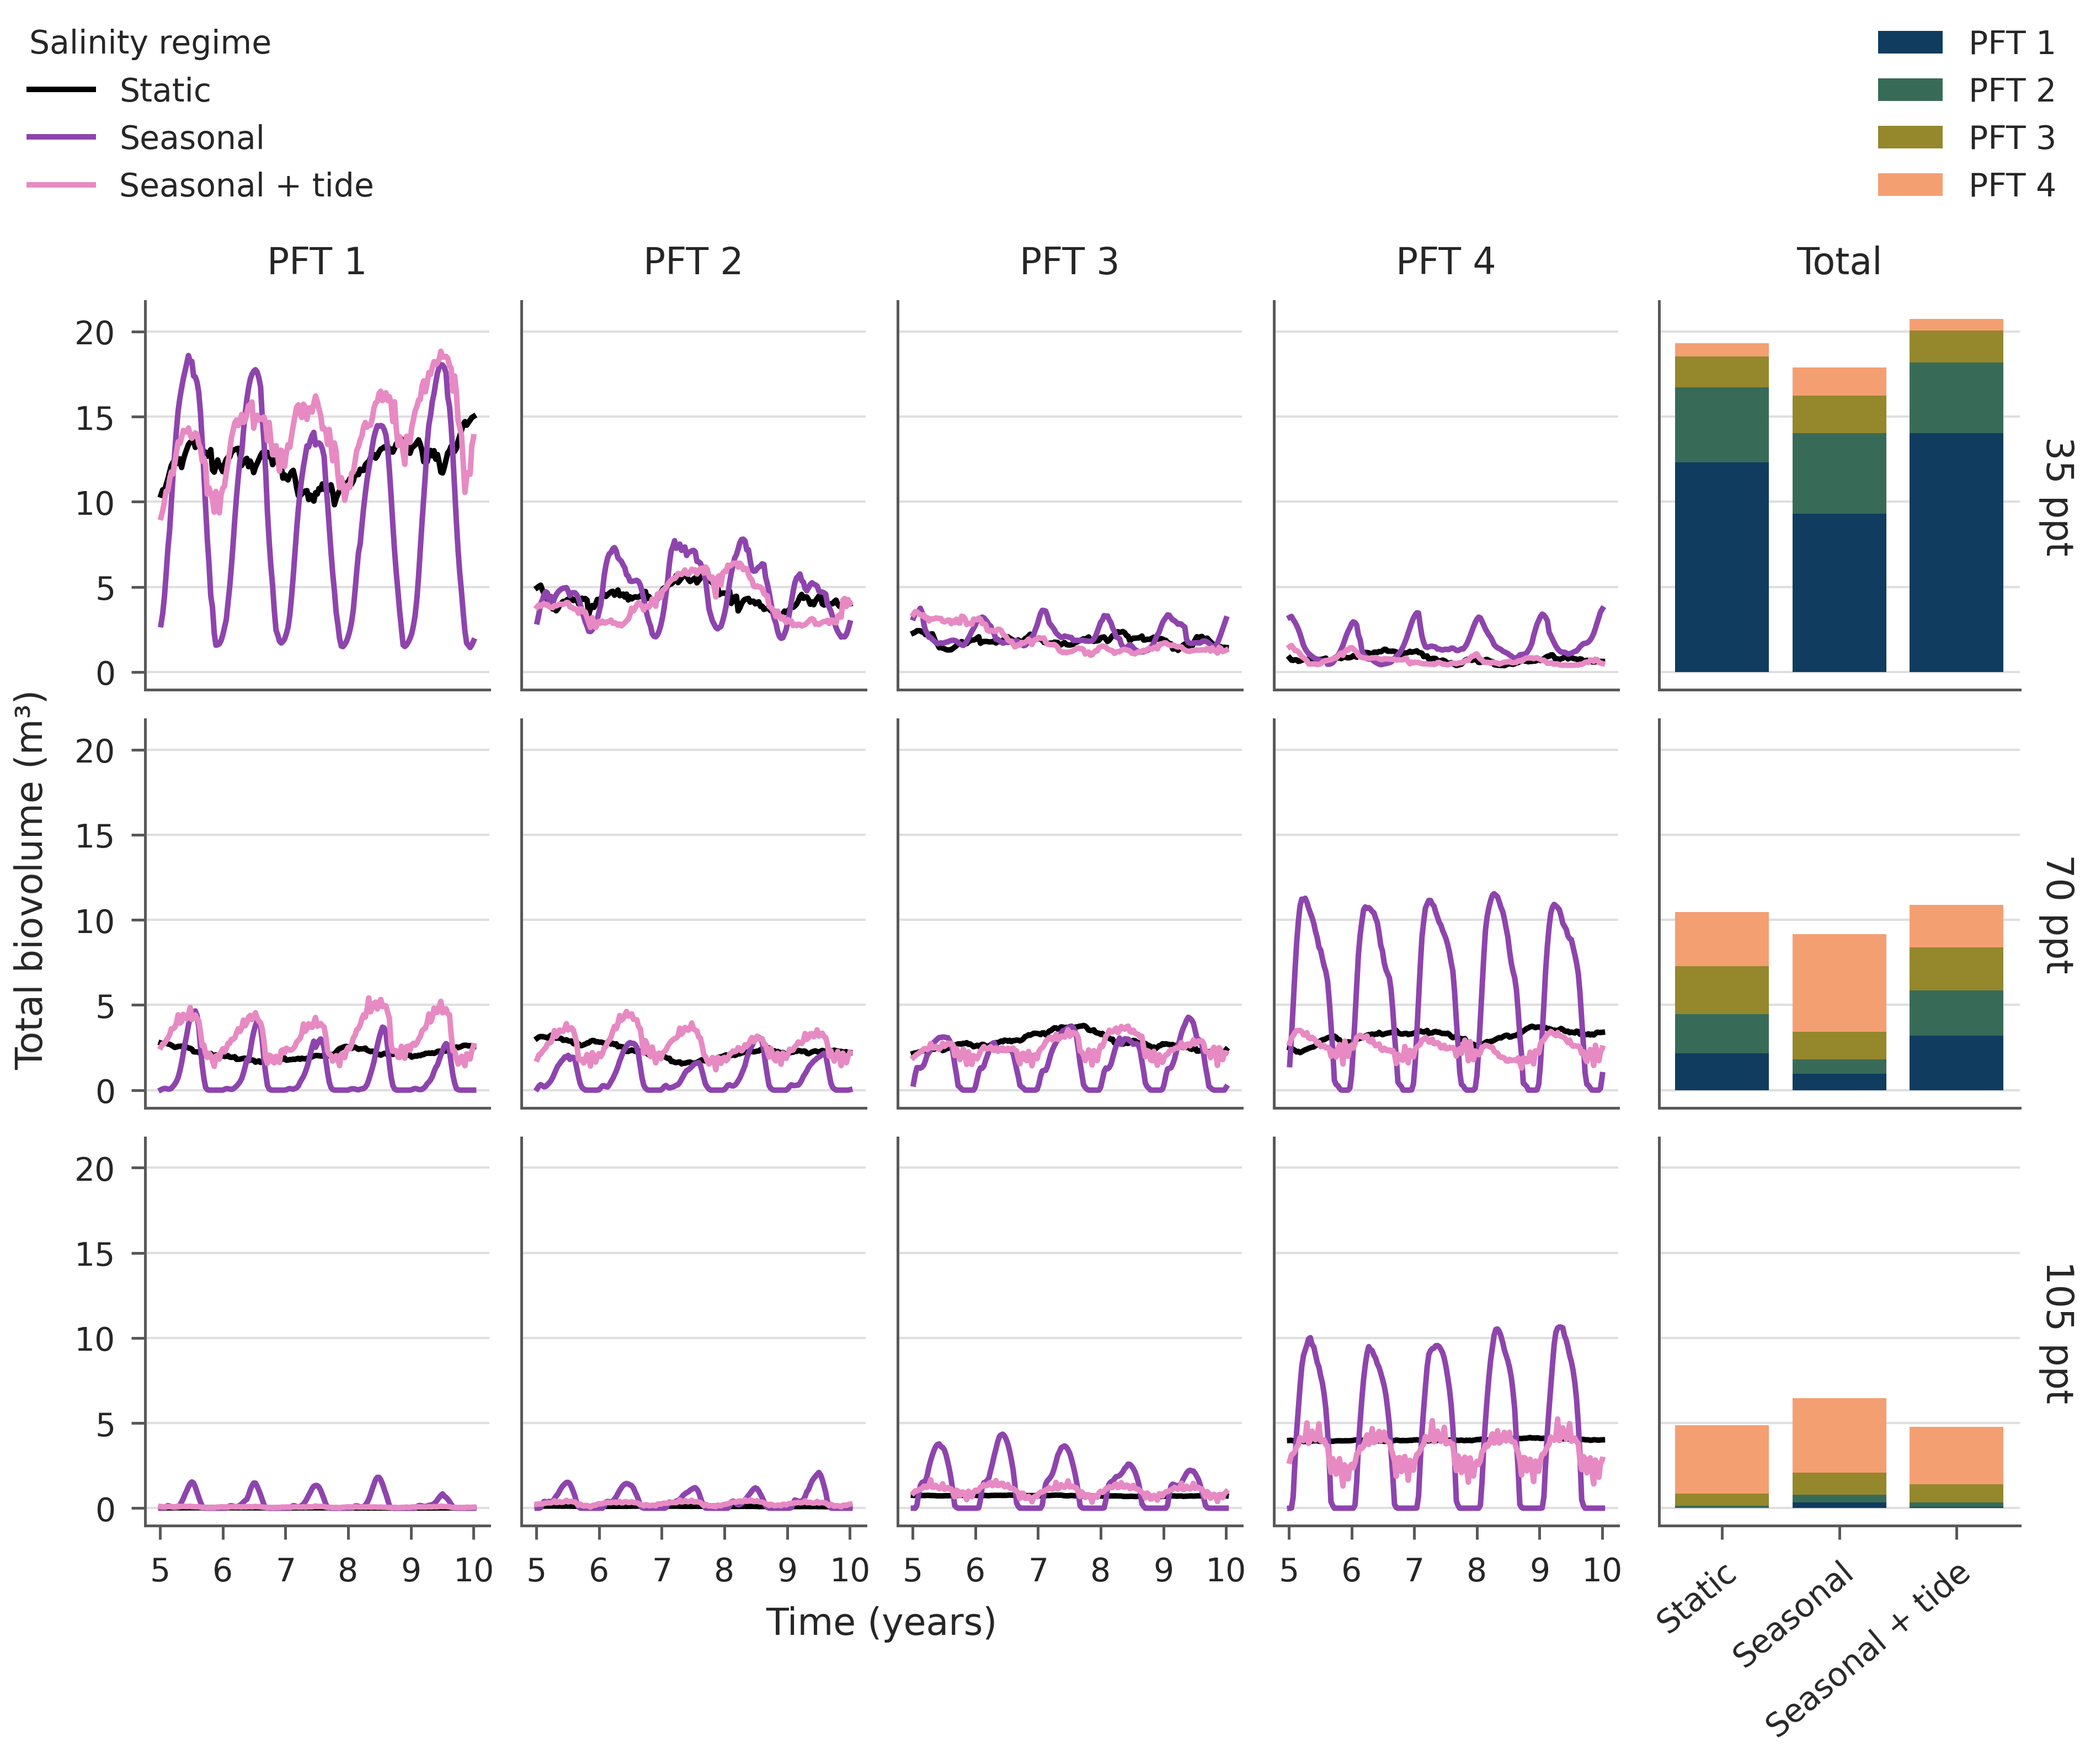
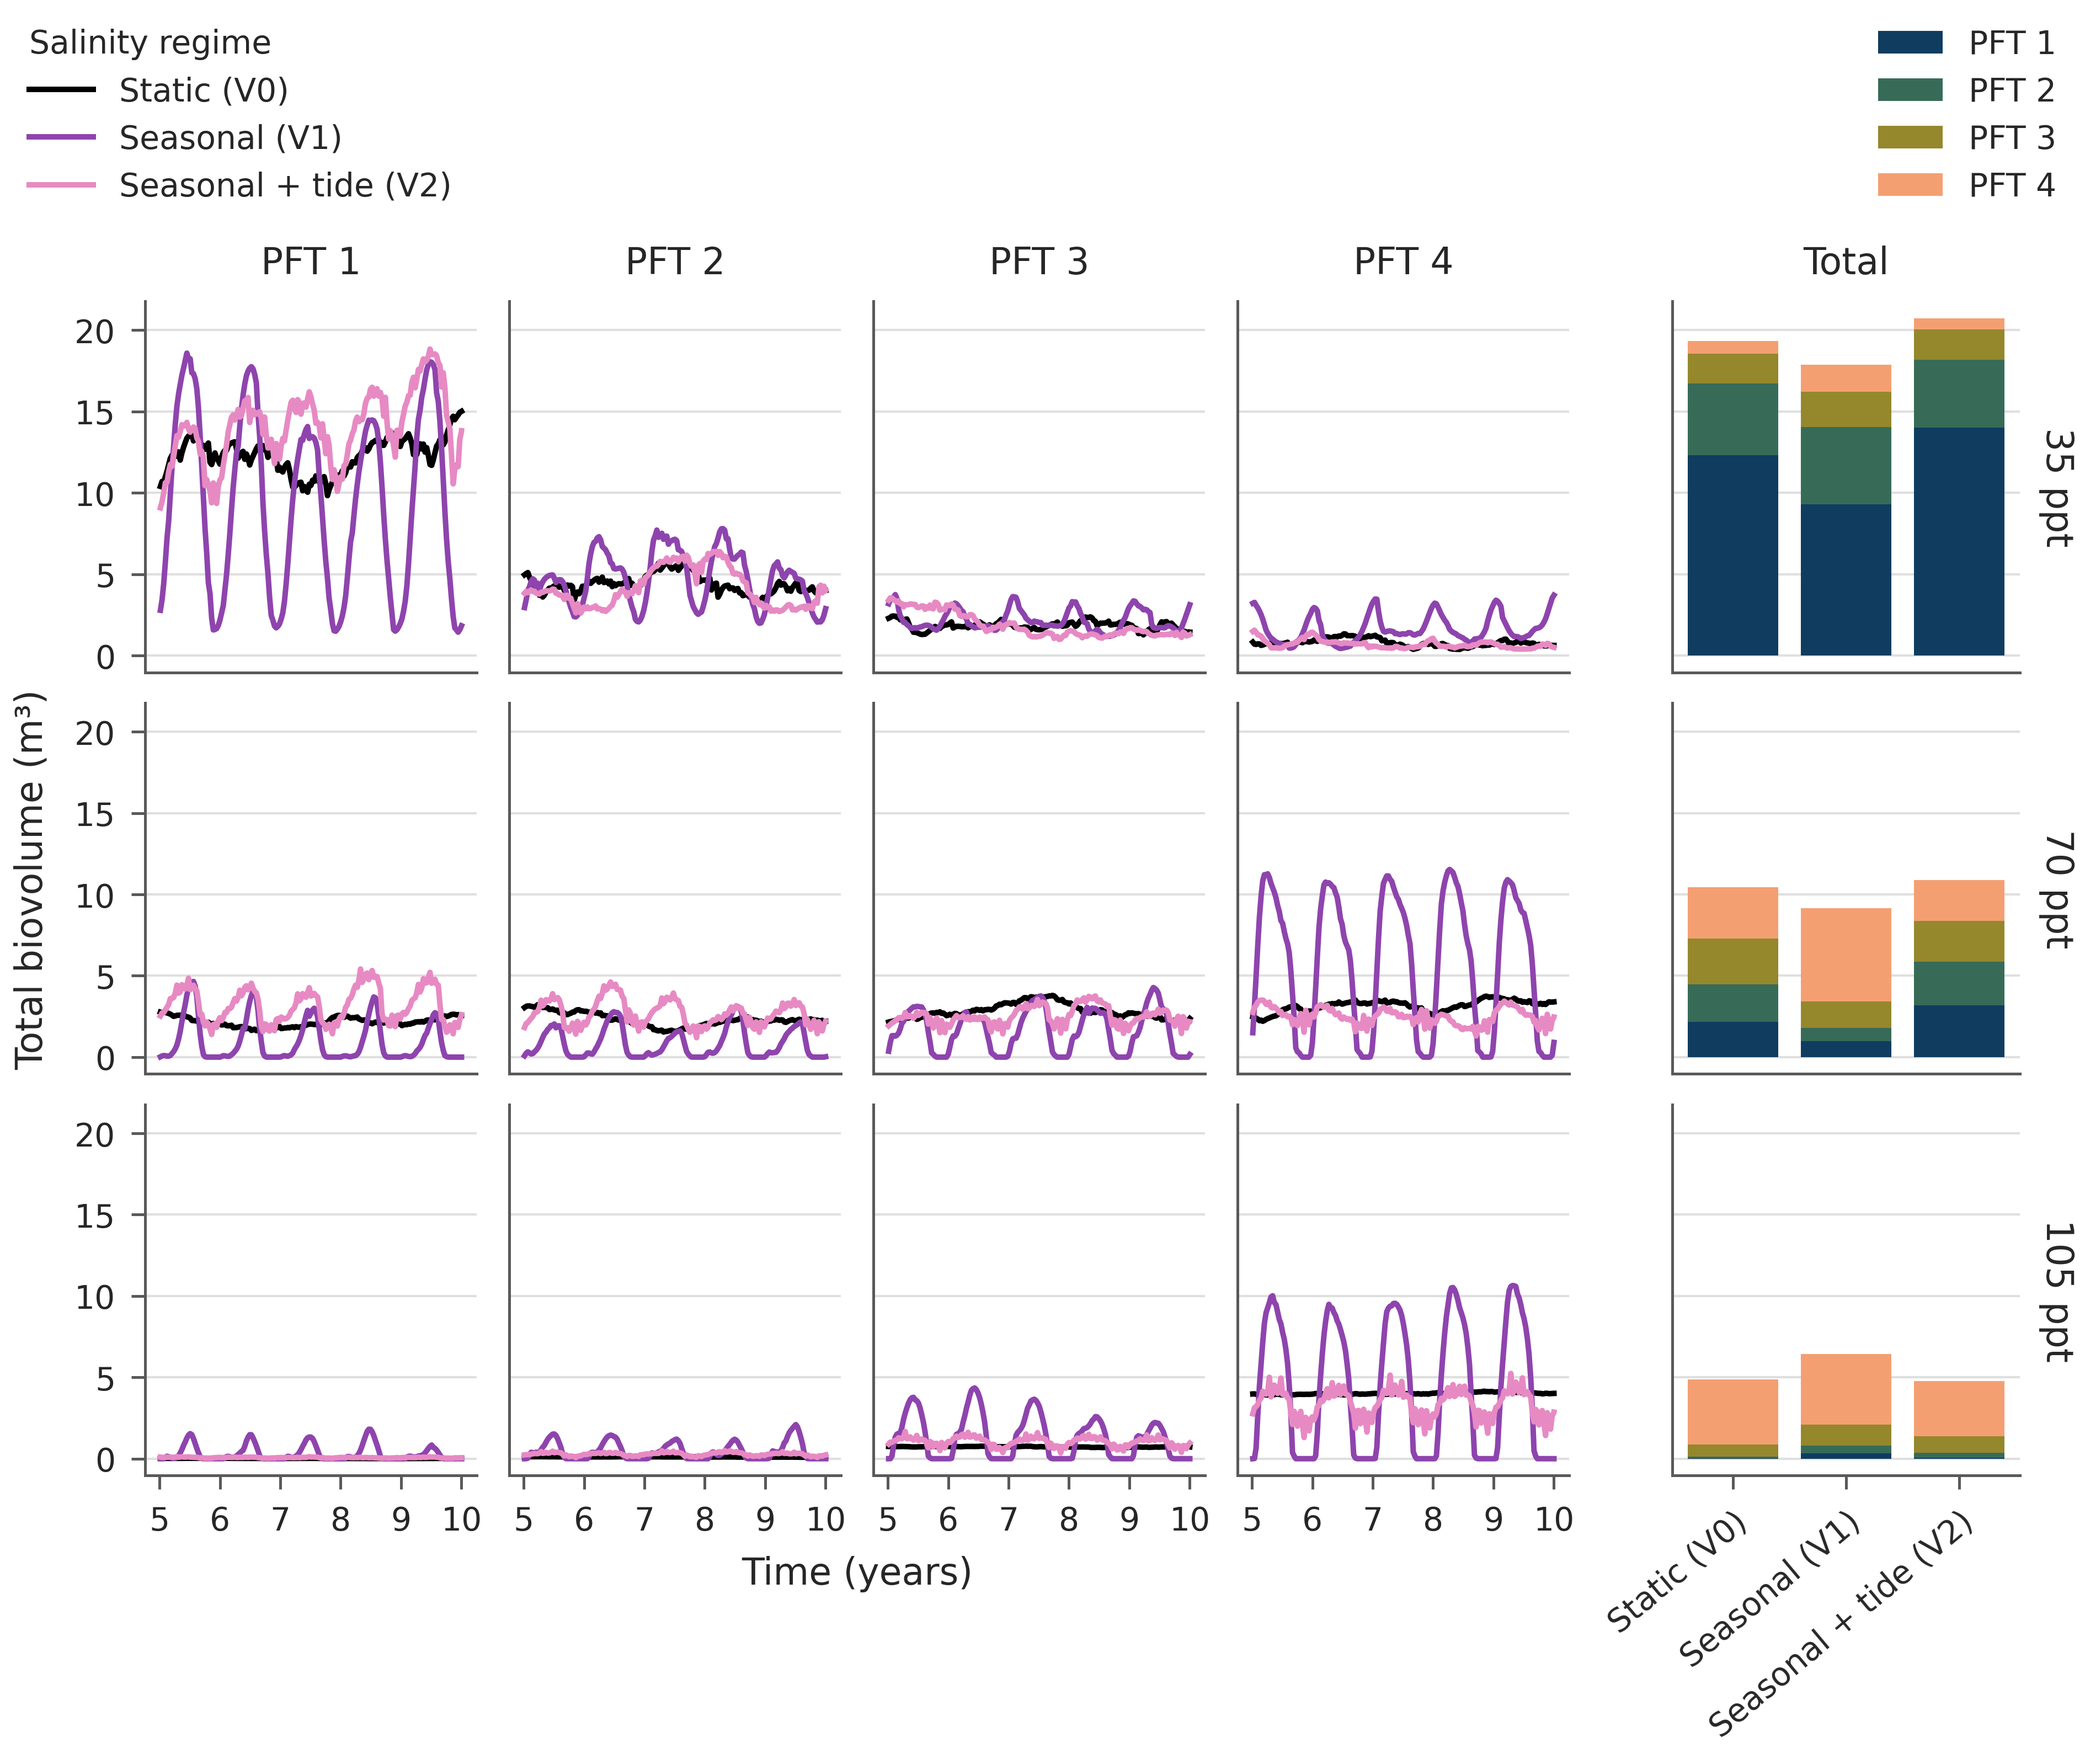
Fix same linewidth

diff --git a/source/figure_config.py b/source/figure_config.py
@@ -129,7 +129,7 @@ def pale(color, strength=0.62):
 # greyscale; the change of hue between the two dynamic regimes keeps them apart
 # in colour and with red-green colour blindness. Purple and magenta do not
 # occur in the PFT palette.
-REGIME_LABELS = {"V0": "Static", "V1": "Seasonal", "V2": "Seasonal + tide"}
+REGIME_LABELS = {"V0": "Static (V0)", "V1": "Seasonal (V1)", "V2": "Seasonal + tide (V2)"}
 regime_color_map = {"V0": "black", "V1": "#8E44AD", "V2": "#E78AC3"}
 REGIME_LINEWIDTH = 1.2
 
